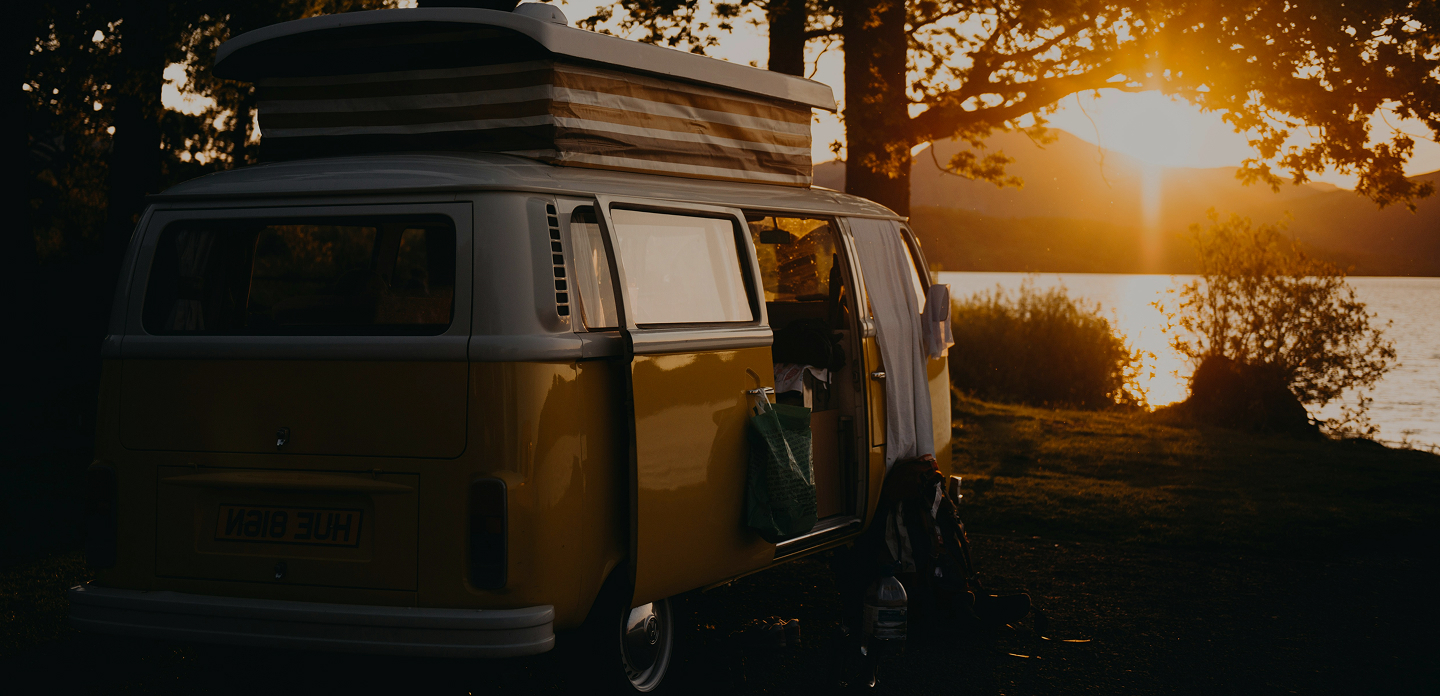
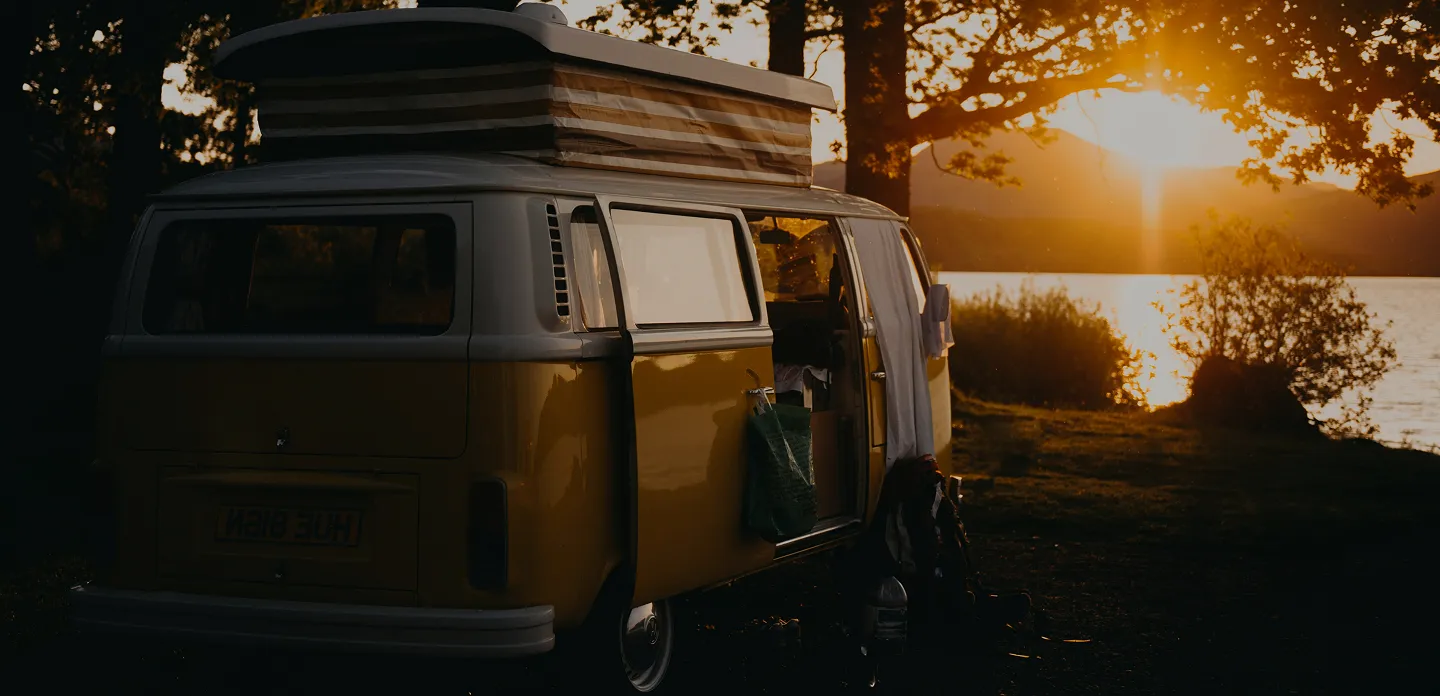
changing image in Hero

diff --git a/app/page.module.css b/app/page.module.css
@@ -1,24 +1,21 @@
 .hero {
+  position: relative;
+  overflow: hidden;
   width: 100%;
-  background-image: url("/heroBackground/Hero-1x.webp");
-  background-size: cover;
-  background-position: center;
-  background-repeat: no-repeat;
   display: flex;
   min-height: calc(100dvh - 71px);
   margin: 0 auto;
 }
 
-@supports (background-image: image-set(url("/x.webp") 1x)) {
-  .hero {
-    background-image: image-set(
-      url("/heroBackground/Hero-1x.webp") 1x,
-      url("/heroBackground/Hero-2x.webp") 2x
-    );
-  }
+.heroImg {
+  object-fit: cover;
+  object-position: center;
+  z-index: 0;
 }
 
 .container {
+  position: relative;
+  z-index: 1;
   padding: 0 20px;
   display: flex;
   align-items: center;
@@ -114,7 +111,6 @@
 
   .title {
     font-size: 48px;
-    line-height: 0.67;
     margin-bottom: 16px;
   }
 

diff --git a/app/page.tsx b/app/page.tsx
@@ -1,12 +1,24 @@
 import Link from "next/link";
+import Image from "next/image";
 import css from "./page.module.css";
 
 export default function Hero() {
   return (
-    <section className={css.hero} aria-label="Hero">
+    <section className={css.hero} aria-labelledby="hero-title">
+      <Image
+        className={css.heroImg}
+        src="/heroBackground/Hero-1x.webp"
+        alt=""
+        fill
+        priority
+        sizes="100vw"
+      />
+
       <div className={css.container}>
         <div className={css.content}>
-          <h1 className={css.title}>Campers of your dreams</h1>
+          <h1 id="hero-title" className={css.title}>
+            Campers of your dreams
+          </h1>
           <p className={css.text}>
             You can find everything you want in our catalog
           </p>
